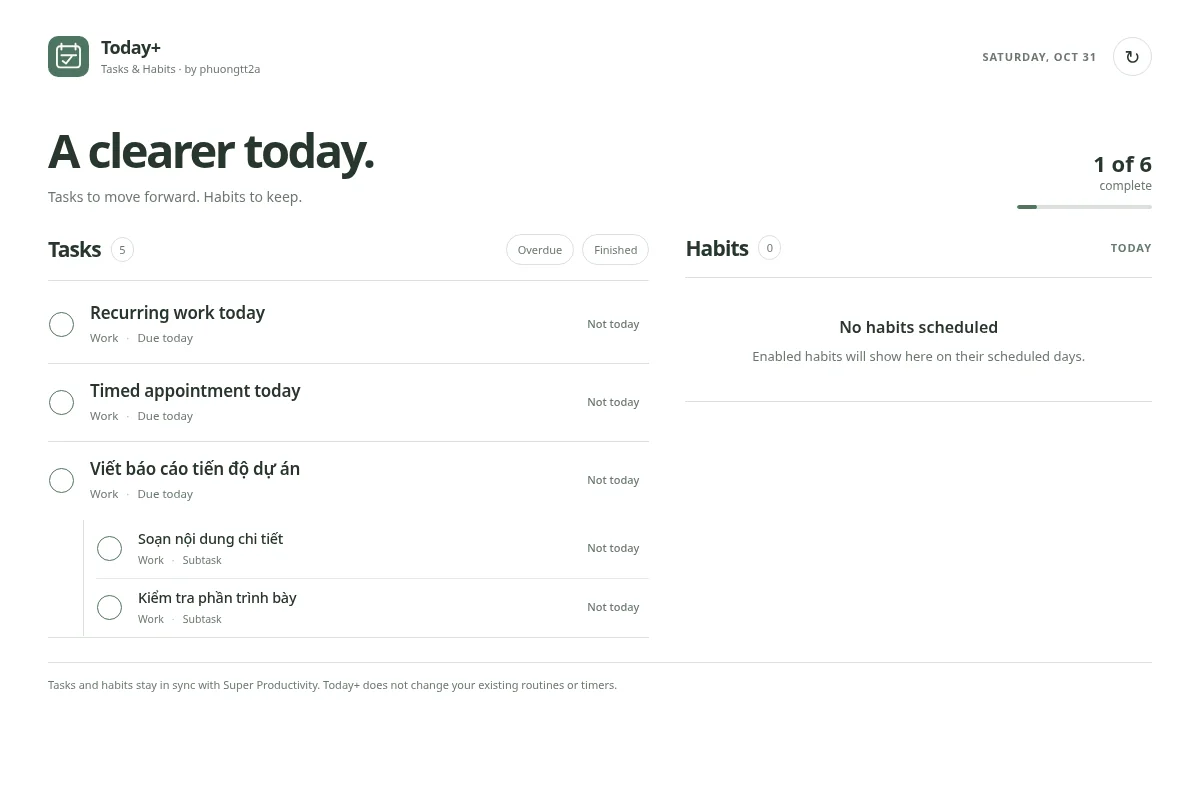
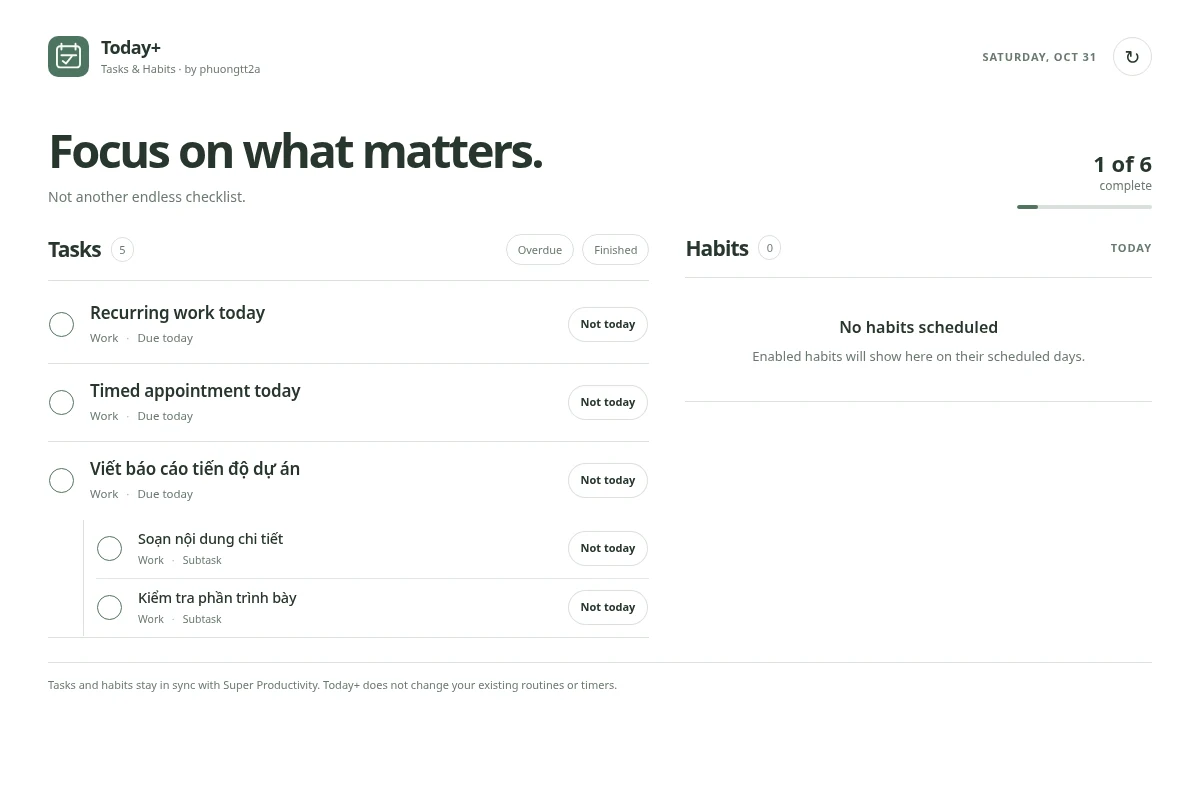
ui: refine Today+ messaging and Not today button (keep v1.1.0)

diff --git a/plugin/index.html b/plugin/index.html
@@ -93,10 +93,12 @@ button:focus-visible,input:focus-visible{outline:2px solid var(--today-accent);o
 .sr-only{position:absolute;width:1px;height:1px;overflow:hidden;clip:rect(0,0,0,0);white-space:nowrap}
 /* Compact actions: completion on the left, unschedule on the right.
    "Not today" clears the date without marking the task finished. */
-.task-skip{justify-self:end;white-space:nowrap;border:1px solid transparent;background:transparent;
-  color:var(--today-muted);font-size:11px;line-height:1.3;font-weight:550;
-  border-radius:999px;padding:7px 8px;min-height:33px;max-width:86px}
-.task-skip:hover,.task-skip:focus-visible{color:var(--today-text);background:var(--today-hover);border-color:var(--today-line)}
+.task-skip{justify-self:end;white-space:nowrap;border:1px solid var(--today-line);background:var(--today-bg);
+  color:var(--today-text);font-size:11px;line-height:1.3;font-weight:650;
+  border-radius:999px;padding:8px 12px;min-height:35px;max-width:none;
+  transition:background .15s ease,border-color .15s ease,transform .15s ease}
+.task-skip:hover,.task-skip:focus-visible{background:var(--today-hover);border-color:var(--today-accent)}
+.task-skip:active{transform:translateY(1px)}
 .task-group{border-bottom:1px solid var(--today-line)}
 .task-group>.item{border-bottom:0}
 .task-children{margin:0 0 1px 35px;padding-left:12px;border-left:1px solid var(--today-line)}
@@ -108,7 +110,7 @@ button:focus-visible,input:focus-visible{outline:2px solid var(--today-accent);o
 .task-note{font-size:12px;line-height:1.5;color:var(--today-muted);margin:9px 0 0;padding:9px 12px;border:1px solid var(--today-line);border-radius:11px;background:var(--today-bg)}
 .item .action-btn{justify-self:end}
 @media(max-width:740px){.app{padding:18px 18px 28px}.topbar{margin-bottom:25px}.workspace{grid-template-columns:1fr;gap:35px}.hero{margin-bottom:22px}.hero h1{font-size:clamp(26px,7.6vw,36px)}.overall{min-width:110px}.item-name{font-size:15px}.item{min-height:70px}.section-head h2{font-size:20px}}
-@media(max-width:380px){.item .action-btn{padding:7px 9px;font-size:11px}.item-meta{flex-wrap:wrap}.time-actions .action-btn{min-height:40px}.app{padding-left:13px;padding-right:13px}.top-right{gap:8px}.today-date{font-size:10px;letter-spacing:.02em}.brand-name{font-size:16px}.hero{align-items:start}.hero h1{font-size:27px}.overall{min-width:88px;font-size:10px}.overall strong{font-size:18px}.item{grid-template-columns:26px minmax(0,1fr) auto;column-gap:8px}.status{font-size:10px;max-width:66px}.task-skip{font-size:10px;padding:6px 4px;min-height:30px}.task-children{margin-left:27px;padding-left:9px}.task-children .item{column-gap:6px}.item-name{font-size:14px}.item-meta{font-size:10px}.section-actions{gap:5px}.chip{padding:6px 8px}}
+@media(max-width:380px){.item .action-btn{padding:7px 9px;font-size:11px}.item-meta{flex-wrap:wrap}.time-actions .action-btn{min-height:40px}.app{padding-left:13px;padding-right:13px}.top-right{gap:8px}.today-date{font-size:10px;letter-spacing:.02em}.brand-name{font-size:16px}.hero{align-items:start}.hero h1{font-size:27px}.overall{min-width:88px;font-size:10px}.overall strong{font-size:18px}.item{grid-template-columns:26px minmax(0,1fr) auto;column-gap:8px}.status{font-size:10px;max-width:66px}.task-skip{font-size:10px;padding:7px 8px;min-height:32px}.task-children{margin-left:27px;padding-left:9px}.task-children .item{column-gap:6px}.item-name{font-size:14px}.item-meta{font-size:10px}.section-actions{gap:5px}.chip{padding:6px 8px}}
 @media(prefers-reduced-motion:reduce){*{scroll-behavior:auto!important;transition:none!important}}
 </style>
 </head>
@@ -122,7 +124,7 @@ button:focus-visible,input:focus-visible{outline:2px solid var(--today-accent);o
 </svg></div><div><div class="brand-name">Today+</div><div class="brand-credit">Tasks &amp; Habits · by phuongtt2a</div></div></div>
     <div class="top-right"><div class="today-date" id="today-date">TODAY</div><button type="button" class="refresh" id="refresh" title="Refresh from Super Productivity" aria-label="Refresh from Super Productivity">↻</button></div>
   </header>
-  <div class="hero"><div><h1>A clearer today.</h1><p>Tasks to move forward. Habits to keep.</p></div><div class="overall" aria-live="polite"><strong id="done-count">0 of 0</strong>complete<div class="overall-bar"><span id="done-bar"></span></div></div></div>
+  <div class="hero"><div><h1>Focus on what matters.</h1><p>Not another endless checklist.</p></div><div class="overall" aria-live="polite"><strong id="done-count">0 of 0</strong>complete<div class="overall-bar"><span id="done-bar"></span></div></div></div>
   <p class="demo-note hidden" id="demo-note">Preview data only. Install this plugin in Super Productivity to see your real tasks and habits.</p>
   <p class="error-note hidden" id="error-note" role="alert"></p>
   <div class="workspace">

diff --git a/tests/browser_task_view_check.py b/tests/browser_task_view_check.py
@@ -32,6 +32,13 @@ with sync_playwright() as p:
    page.evaluate(API)
    page.set_content((ROOT/'plugin/index.html').read_text(encoding="utf8"))
    page.wait_for_selector('[data-not-today="p1"]')
+   # Hero messaging and button affordance must match the current design.
+   assert page.locator('.hero h1').inner_text() == 'Focus on what matters.'
+   assert page.locator('.hero p').inner_text() == 'Not another endless checklist.'
+   btn=page.locator('[data-not-today="p1"]')
+   assert btn.evaluate("el => getComputedStyle(el).borderTopWidth") == '1px', (width,'button border')
+   assert btn.evaluate("el => getComputedStyle(el).backgroundColor") != 'rgba(0, 0, 0, 0)', (width,'button background')
+
    assert page.locator('.task-children .item').count()==2,(width,'subtask count')
    assert page.get_by_text('Overdue task').count()==0,(width,'overdue hidden')
    assert page.get_by_text('Completed task').count()==0,(width,'finished hidden')

diff --git a/README.md b/README.md
@@ -1,6 +1,6 @@
 # Today+
 
-**Your tasks and habits, together.**
+**Focus on what matters. Not another endless checklist.**
 
 **Today+** is an independent, community-built plugin for [Super Productivity](https://app.super-productivity.com/), created by [phuongtt2a](https://github.com/phuongtt2a). It brings **tasks due today** and **habits scheduled for today** onto one calm screen, so you can see your work and routines without switching views.
 
@@ -32,7 +32,7 @@ Super Productivity organizes tasks and habits in different views. Today+ brings 
 ## Features
 
 - **Today’s tasks:** See tasks due today, with subtasks nested beneath their parents. Overdue and completed tasks are hidden at first; you can show either when needed.
-- **Clear daily actions:** Complete a task, or choose **Not today** to remove its due date without marking it completed. The task stays in its project until you schedule it again.
+- **Clear daily actions:** Complete a task, or use the clearly outlined **Not today** button to remove its due date without marking it completed. The task stays in its project until you schedule it again.
 - **Scheduled habits:** Read existing enabled habits from Super Productivity. Follow weekday schedules; show weekly-frequency habits during the week.
 - **Single-completion habits:** Tap once to complete; tap again to undo.
 - **Count or goal-based habits:** Increase or decrease today's value and see progress toward the configured goal.
@@ -44,7 +44,7 @@ No separate login, external service, duplicate tasks, or additional local data s
 
 ## Install
 
-1. [Download the latest Today+ ZIP](https://github.com/phuongtt2a/super-productivity-today-plus/releases/latest) from **Assets** on the GitHub Release page (do not use GitHub’s auto-generated source ZIP).
+1. [Download the latest installable Today+ ZIP](https://github.com/phuongtt2a/super-productivity-today-plus/raw/refs/heads/main/dist/today-plus-super-productivity.zip) from the current repository build. This also includes minor UI fixes that retain the same version number. (GitHub Release assets are historical, unchanged snapshots; do not install GitHub’s automatic source ZIP.)
 2. In [Super Productivity](https://app.super-productivity.com/), go to **Settings → Plugins** and choose **Choose Plugin File**.
 3. Import the downloaded ZIP **without unpacking it**. Then open **Today+** from the plugin menu.
 

diff --git a/CHANGELOG.md b/CHANGELOG.md
@@ -1,10 +1,16 @@
 # Changelog
 
+## Unreleased — minor interface refinements (version stays 1.1.0)
+
+- Replace the dashboard headline with “Focus on what matters.” and the supporting line with “Not another endless checklist.”
+- Give **Not today** a visible but subtle outlined-button appearance on desktop and mobile.
+- Keep the existing task actions, filters and plugin version unchanged; refresh screenshots and the installable ZIP on the main branch.
+
 ## 1.1.0 — Task hierarchy and clearer status controls
 
 - Group subtasks below their parent tasks, including undated subtasks in today's scheduled parents.
 - Hide overdue and finished tasks by default; both remain available through filters.
-- Show a quiet “Won’t do…” action beside each task's completion circle. This opens the native task details for the built-in command, because the public plugin API does not expose direct “Won’t do” updates.
+- Show **Not today** beside each task's completion circle; it clears the scheduled date without completing the task. Native **Won’t do** is a different task status.
 - Keep the existing task, habit, manual time logging and synced data behavior.
 
 

diff --git a/docs/RELEASING.md b/docs/RELEASING.md
@@ -14,6 +14,10 @@ Repository: https://github.com/phuongtt2a/super-productivity-today-plus
 4. Commit and push to `main` with a message beginning `release:`; the GitHub Action runs validation and publishes the version-matched release ZIP. Alternatively, push the corresponding `vX.Y.Z` tag.
 5. Verify the GitHub Actions run and the release's `today-plus-super-productivity.zip` asset. Never tell users to install GitHub's automatic source archive.
 
+## Same-version minor fixes
+
+For small UI changes that intentionally **retain v1.1.0**, rebuild and commit `dist/today-plus-super-productivity.zip` on `main` alongside updated source, docs and screenshots. Do **not** use a `release:` commit message or move the existing version tag. The release attachment remains an immutable snapshot; link users to the installable ZIP on the current `main` branch for these fixes.
+
 ## Important constraints
 
 - Keep the plugin identifier `sp-today-tasks-habits` unchanged so installed copies continue working.
